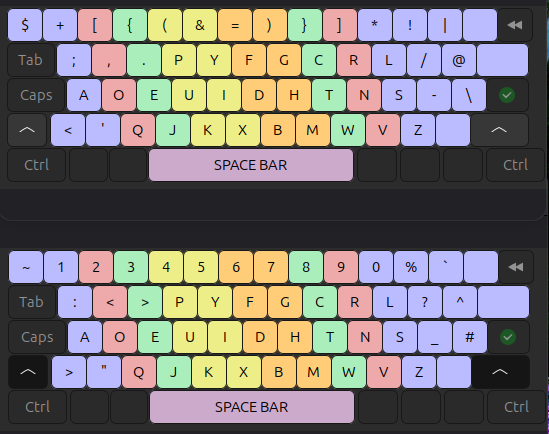
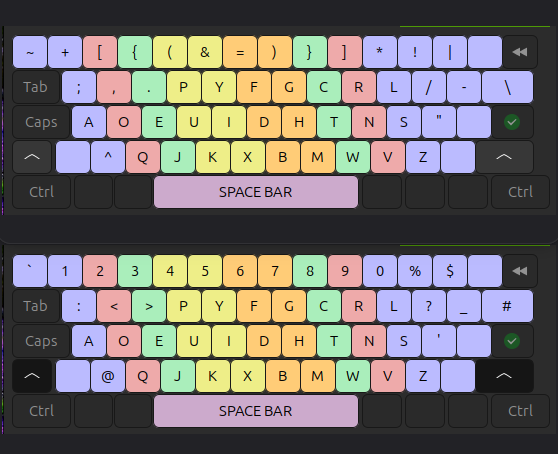
changed rpd to urpd with my own personal tweaks

diff --git a/xkb/README.md b/xkb/README.md
@@ -1,7 +1,7 @@
 
-# ⌨ Real Programmer's Dvorak — End-to-End Installation Guide
+# ⌨ Unreal Programmer's Dvorak — Installation Guide
 
-Complete setup instructions to deploy The Primeagen's Real Programmer's Dvorak on a brand new machine.
+Complete setup instructions to deploy my custom layout mostly *The Primeagen's Real Programmer's Dvorak* with some personal tweaks.
 
 ![rpd](./RPD.png)
 
@@ -53,14 +53,14 @@ ln -sf ~/dotfiles/xkb/.config/xkb/rules ~/.config/xkb/rules
 
 1. Open **System Settings** -> **Input Devices** -> **Keyboard**.
 2. Click the **Add...** layout action button.
-3. Type and select `English (Real Programmers Dvorak)`.
+3. Type and select `English (Unreal Programmers Dvorak)`.
 4. Move this layout entry to the top position block and hit **Apply**.
 
 #### 🐉 For Kali / REMnux (XFCE)
 
 1. Open **Settings** -> **Keyboard** -> **Layout** tab selection.
 2. Toggle off the **Use system defaults** selector checkbox.
-3. Click **Add**, find and select `English (Real Programmers Dvorak)`.
+3. Click **Add**, find and select `English (Unreal Programmers Dvorak)`.
 
 #### 🎯 For Ubuntu / GNOME Environments
 
@@ -69,13 +69,16 @@ Force the background window system environment to flush its active source layout
 ```bash
 gsettings reset org.gnome.desktop.input-sources sources
 gsettings reset org.gnome.desktop.input-sources mru-sources
-gsettings set org.gnome.desktop.input-sources sources "[('xkb', 'us'), ('xkb', 'real-prog-dvorak')]"
+gsettings set org.gnome.desktop.input-sources sources "[('xkb', 'us'), ('xkb', 'unreal-prog-dvorak')]"
 
 ```
 
 ---
 
 ## 🪟 Windows Setup Steps
+
+> [!WARNING]
+> This is for the original RPD. I haven't ported my own custom tweaks to windows. Plans to change later.
 
 
 ### 1. Grab Your Dotfiles Tree
